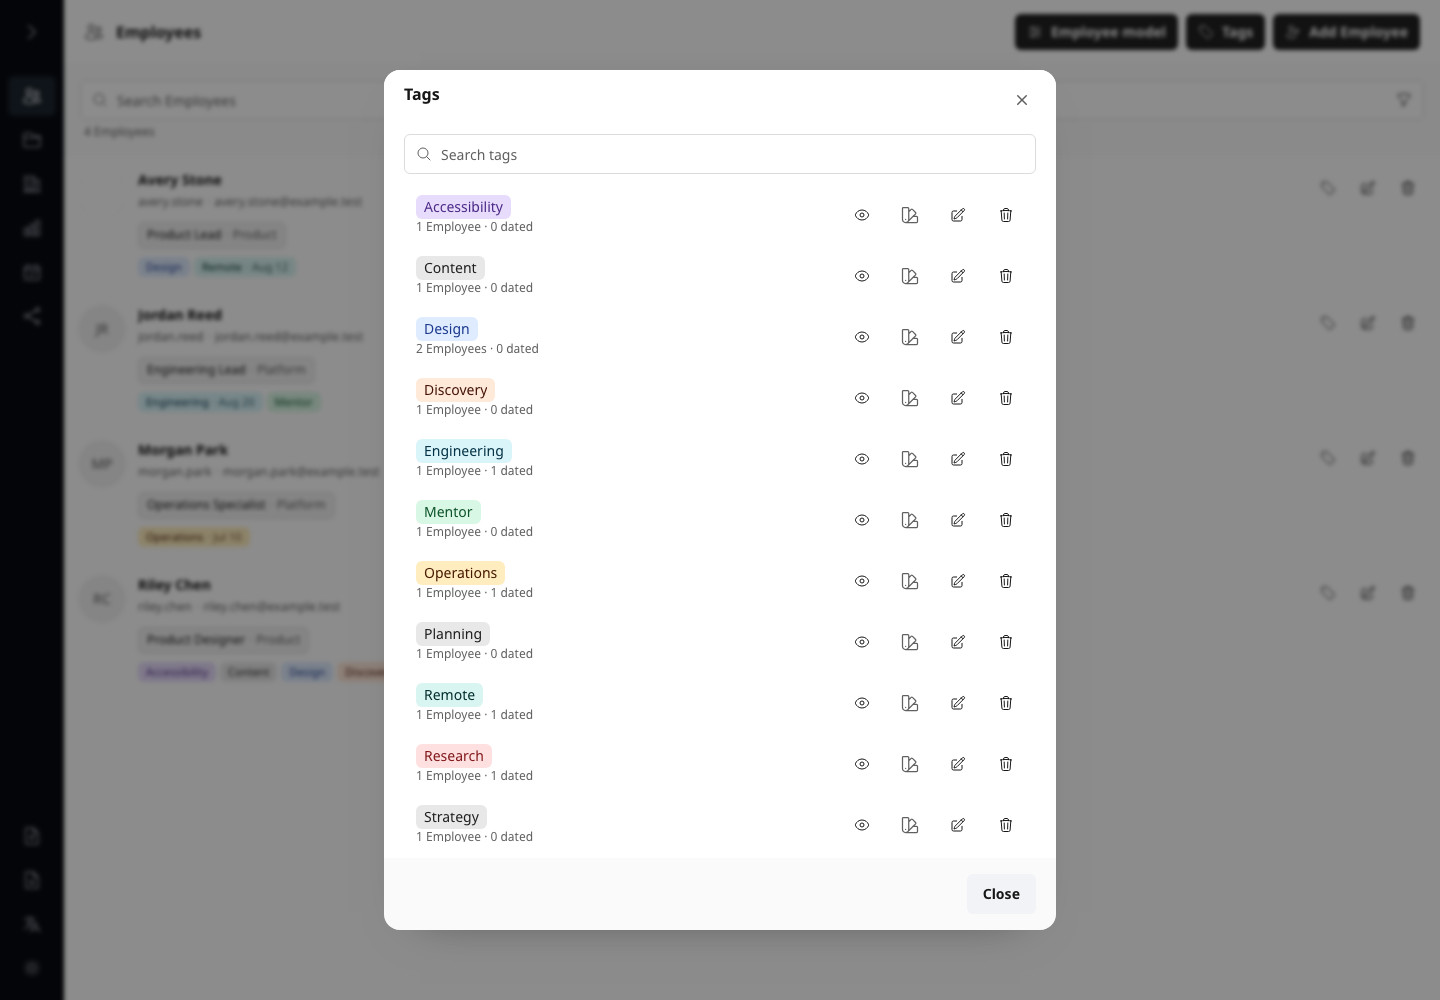
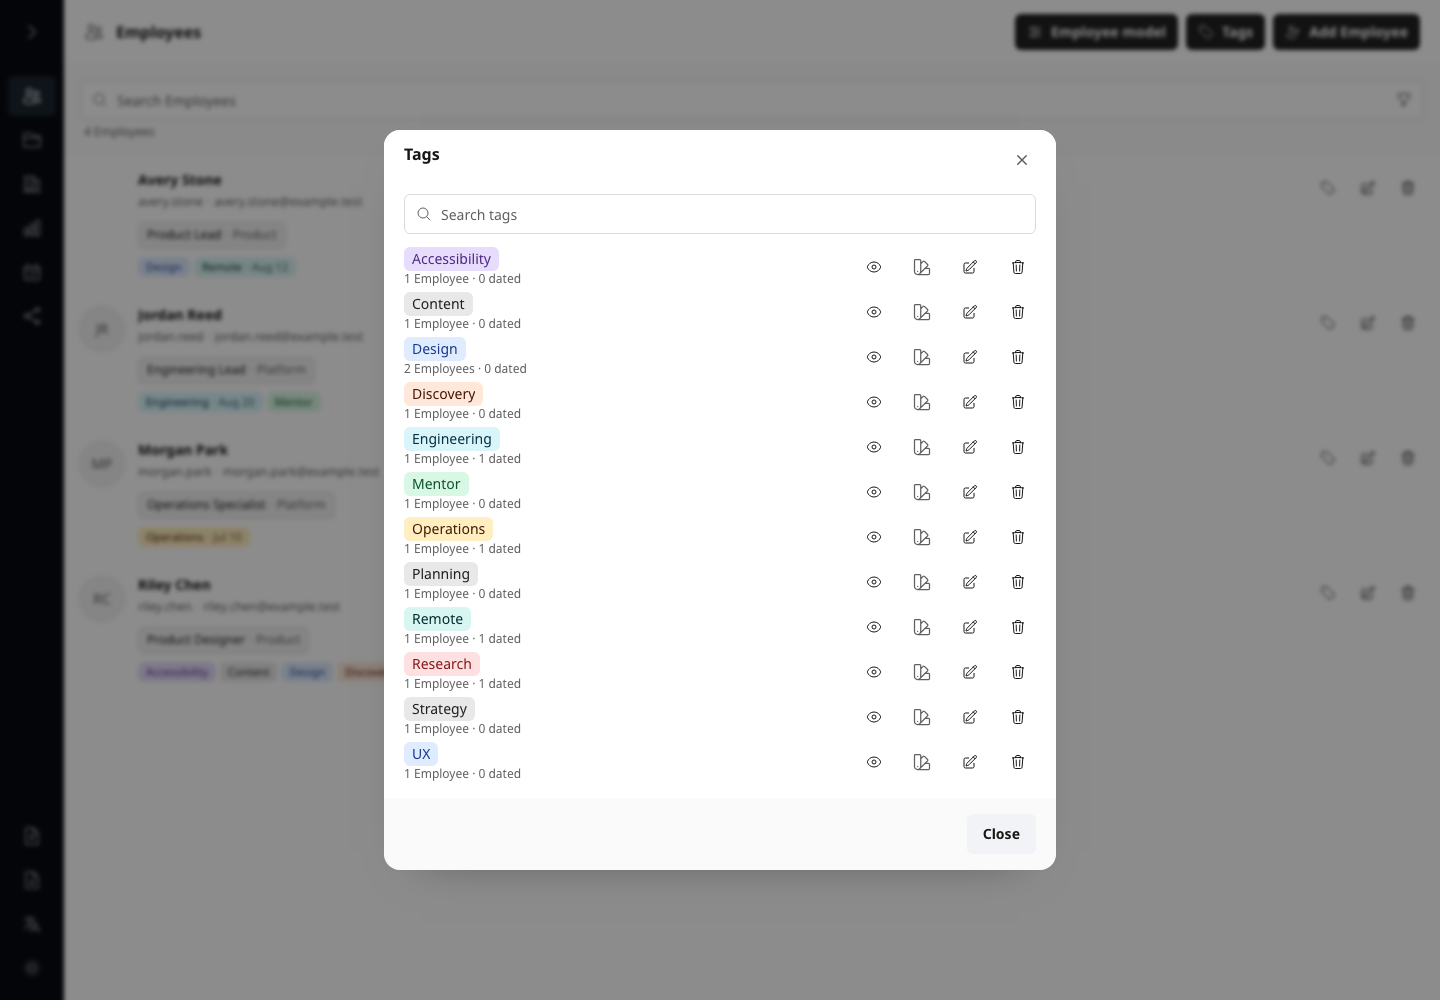
fix: simplify Tag rows and Calendar dates

diff --git a/packages/screenshots/tests/smoke.spec.ts b/packages/screenshots/tests/smoke.spec.ts
@@ -2579,17 +2579,19 @@ test("keeps Calendar navigation in the header and fits July at 1280 by 720", asy
   const emptyDate = page.locator('[data-calendar-date="2026-07-01"]');
   const eventDate = page.locator('[data-calendar-date="2026-07-10"]');
   const weekendDate = page.locator('[data-calendar-date="2026-07-04"]');
-  await expect(emptyDate).toHaveRole("button");
+  await expect(emptyDate).not.toHaveRole("button");
   await expect(eventDate).toHaveRole("button");
   await expect(emptyDate).toHaveCSS("border-top-width", "0px");
-  await expect(emptyDate).toHaveCSS("cursor", "pointer");
+  await expect(emptyDate).not.toHaveCSS("cursor", "pointer");
   await expect(eventDate).toHaveCSS("cursor", "pointer");
   expect(await getBackgroundColor(weekendDate)).not.toBe(await getBackgroundColor(emptyDate));
   const weekendHeadings = page.locator('[data-demo-id="calendar-weekdays"] > .bg-calendar-weekend');
   await expect(weekendHeadings).toHaveCount(2);
   const emptyRestingBackground = await getBackgroundColor(emptyDate);
   await expectStableHoverGeometry(emptyDate);
-  await expect.poll(() => getBackgroundColor(emptyDate)).not.toBe(emptyRestingBackground);
+  expect(await getBackgroundColor(emptyDate)).toBe(emptyRestingBackground);
+  await emptyDate.click();
+  await expect(page.getByRole("dialog")).toHaveCount(0);
   const eventRestingBackground = await getBackgroundColor(eventDate);
   await expectStableHoverGeometry(eventDate);
   await expect.poll(() => getBackgroundColor(eventDate)).not.toBe(eventRestingBackground);
@@ -2789,7 +2791,13 @@ test("uses the configured Tag color as fill without leading marker dots", async 
     .first();
   await expect(tagRow).toHaveCSS("border-width", "0px");
   await expectTransparentBackground(tagRow);
+  await expect(tagRow).toHaveCSS("padding-top", "0px");
+  await expect(tagRow).toHaveCSS("padding-right", "0px");
+  await expect(tagRow).toHaveCSS("padding-bottom", "0px");
+  await expect(tagRow).toHaveCSS("padding-left", "0px");
+  const tagRowRestingBackground = await getBackgroundColor(tagRow);
   await expectStableHoverGeometry(tagRow);
+  expect(await getBackgroundColor(tagRow)).toBe(tagRowRestingBackground);
   expect(
     await tagRow
       .getByRole("button")

diff --git a/apps/ui/src/components/calendar-tab.tsx b/apps/ui/src/components/calendar-tab.tsx
@@ -154,15 +154,32 @@ function CalendarDayCell({
       </div>
     </>
   );
+  const cellClassName = cn(
+    "flex min-h-0 flex-col items-stretch overflow-hidden rounded-lg bg-muted/30 p-2.5 text-start",
+    hasContent &&
+      "cursor-pointer outline-none transition-colors hover:bg-accent focus-visible:ring-2 focus-visible:ring-ring focus-visible:ring-offset-1",
+    isWeekend && "bg-calendar-weekend",
+    hasContent && isWeekend && "hover:bg-calendar-weekend-hover",
+    isToday && !isWeekend && "bg-signal/15",
+    hasContent && isToday && !isWeekend && "hover:bg-signal/20",
+  );
+  if (!hasContent) {
+    return (
+      <div
+        className={cellClassName}
+        data-calendar-date={calendarDay.date}
+        data-has-content="false"
+        data-today={isToday ? "true" : undefined}
+      >
+        {content}
+      </div>
+    );
+  }
   return (
     <button
-      className={cn(
-        "flex min-h-0 cursor-pointer flex-col items-stretch overflow-hidden rounded-lg bg-muted/30 p-2.5 text-start outline-none transition-colors hover:bg-accent focus-visible:ring-2 focus-visible:ring-ring focus-visible:ring-offset-1",
-        isWeekend && "bg-calendar-weekend hover:bg-calendar-weekend-hover",
-        isToday && !isWeekend && "bg-signal/15 hover:bg-signal/20",
-      )}
+      className={cellClassName}
       data-calendar-date={calendarDay.date}
-      data-has-content={hasContent ? "true" : "false"}
+      data-has-content="true"
       data-today={isToday ? "true" : undefined}
       onClick={() => onOpen(calendarDay)}
       type="button"

diff --git a/apps/ui/src/components/tag-catalog-dialog.tsx b/apps/ui/src/components/tag-catalog-dialog.tsx
@@ -123,7 +123,7 @@ export const TagCatalogDialog = observer(function TagCatalogDialog({
                     const count = counts.get(tag.id) ?? { dated: 0, employees: 0 };
                     return (
                       <div
-                        className="flex items-center gap-3 px-3 py-2 transition-colors hover:bg-accent/40"
+                        className="flex items-center gap-3"
                         data-demo-id="tag-catalog-row"
                         key={tag.id}
                       >

diff --git a/docs/screenshots.md b/docs/screenshots.md
@@ -175,8 +175,8 @@ Capabilities: Custom fields, Virtualized values, Not filled, Compound filtering.
 
 [![Tag catalog](screenshots/feature-employees-tag-catalog.png)](screenshots/feature-employees-tag-catalog.png)
 
-Search centralized Tags in flat rows and inspect named or arbitrary global filled colors, Employee
-usage, dated-assignment counts, and the ordered Eye, Color, Edit, and Delete actions.
+Search centralized Tags in padding-free inert rows and inspect named or arbitrary global filled
+colors, Employee usage, dated-assignment counts, and the ordered Eye, Color, Edit, and Delete actions.
 
 Capabilities: Tag catalog, Search, Global colors, Usage counts.
 
@@ -366,8 +366,8 @@ Capabilities: Value drill-down, Matching Employees, Employee actions.
 
 [![Employee Calendar](screenshots/demo-calendar.png)](screenshots/demo-calendar.png)
 
-Navigate locale-correct weeks with soft rose weekend tones, birthdays, compact dated-tag counts, conditional
-Today navigation, and a strong current-day state.
+Navigate locale-correct weeks with soft rose weekend tones, birthdays, compact dated-tag counts,
+conditional Today navigation, non-interactive empty dates, and a strong current-day state.
 
 Capabilities: Localized weekdays, Weekends, Birthdays, Tag indicators, Today state.
 
@@ -450,7 +450,8 @@ Capabilities: Remaining fields, Formatted JSON, Copy, Local download.
   geometry, and every product module.
 - Confirm startup uses one centered icon-only loader with no visible technical status copy.
 - Confirm dialogs, popovers, filters, error states, Editor exports, Analytics drill-down, Calendar events, and Download previews are fully visible.
-- Confirm Tag rows are flat and expose Eye, Color, Edit, and Delete in order. Rename uses a dedicated
+- Confirm Tag rows are padding-free and have no row-level hover effect while exposing Eye, Color,
+  Edit, and Delete in order. Rename uses a dedicated
   modal; quick Color shows its palette, exact typed format Select above the Popover, named presets,
   and no marker dots or clipping; Eye uses full live Employee cards.
 - Confirm thematic icons precede text in buttons and tabs while disclosure, sorting, removal,
@@ -459,6 +460,7 @@ Capabilities: Remaining fields, Formatted JSON, Copy, Local download.
   descendant Employees form one contiguous list, and its count sits below search without roster-section headings.
 - Confirm Calendar day details are one scroll with Birthdays first and each dated Tag as an
   interactive heading followed by complete Employee cards with Tag, Edit, and Delete actions.
+- Confirm empty Calendar dates do not expose a pointer, hover treatment, or day-details dialog.
 - Confirm Calendar tag history omits the Current and upcoming heading and exposes complete Employee
   cards while retaining the conditional Past section.
 - Confirm an unselected Editor Unit keeps its resting background and opacity during passive hover in

diff --git a/openspec/changes/archive/2026-09-03-remove-tag-row-hover-and-empty-day-dialog/specs/tag-catalog/spec.md b/openspec/changes/archive/2026-09-03-remove-tag-row-hover-and-empty-day-dialog/specs/tag-catalog/spec.md
@@ -1,0 +1,46 @@
+## MODIFIED Requirements
+
+### Requirement: Users manage Tags centrally
+The Employees header SHALL expose a Tag dialog with search, Employee count, dated-assignment count,
+flat borderless rows, and confirmed deletion. Tag rows SHALL have no wrapper padding, row hover
+effect, border, shadow, or resting card fill; only their explicit controls SHALL provide interaction
+feedback. Every row SHALL expose Eye, Color, Edit, and Delete actions in that order. Edit SHALL open
+a dedicated rename-only modal with Save and Cancel. Color SHALL open the shared full-spectrum picker
+directly from the row and SHALL persist one valid color change per completed interaction. Deleting a
+definition SHALL atomically remove its assignments, filters, and output exclusions.
+
+#### Scenario: Open Tag editing
+- **WHEN** a user activates Edit for a catalog Tag
+- **THEN** a separate focused rename modal opens without color controls or catalog reflow
+
+#### Scenario: Save a Tag draft
+- **WHEN** a user changes the label to a unique valid value and activates Save
+- **THEN** the existing Tag definition changes atomically and the edit modal closes
+
+#### Scenario: Cancel a Tag draft
+- **WHEN** a user closes or cancels the edit modal after changing its draft label
+- **THEN** the Tag definition and its assignments remain unchanged
+
+#### Scenario: Open quick color editing
+- **WHEN** a user activates the Color action for a Tag
+- **THEN** the shared full palette, exact input, named colors, and No color appear from that row
+
+#### Scenario: Choose an arbitrary color
+- **WHEN** a palette or hue gesture completes
+- **THEN** one canonical color change is persisted and pointer samples do not create organization writes
+
+#### Scenario: Choose a named color
+- **WHEN** a user selects a localized named preset below the palette
+- **THEN** the definition stores that semantic preset and the picker closes
+
+#### Scenario: Reset a Tag color
+- **WHEN** a user selects No color
+- **THEN** the definition uses the neutral Tag treatment and the picker closes
+
+#### Scenario: Delete an assigned Tag
+- **WHEN** the user confirms deletion after seeing affected counts
+- **THEN** the definition and all references disappear in one organization mutation
+
+#### Scenario: Render flat Tag rows
+- **WHEN** the Tag catalog row is idle or the pointer is over its non-control area
+- **THEN** the row has zero wrapper padding and no border, shadow, resting fill, hover fill, or geometry change

diff --git a/openspec/changes/archive/2026-09-03-remove-tag-row-hover-and-empty-day-dialog/specs/organization-editor/spec.md b/openspec/changes/archive/2026-09-03-remove-tag-row-hover-and-empty-day-dialog/specs/organization-editor/spec.md
@@ -1,0 +1,43 @@
+## MODIFIED Requirements
+
+### Requirement: Calendar dates use consistent interaction geometry
+The Calendar SHALL format its month heading through the active locale with a bare numeric year,
+render every in-month date with a fixed date-number row, and expose a day as an actionable button
+only when it contains at least one current birthday or dated Tag assignment. Empty dates SHALL not
+open a dialog or present pointer/hover interaction. Real Saturday and Sunday headings and cells
+SHALL use a stable theme-aware light rose treatment. A current weekend SHALL retain that rose
+surface while the signal date badge remains the dominant current-day cue. A day-dialog title SHALL
+preserve locale order while omitting the abbreviated Russian year suffix. Previous and Next
+navigation SHALL use the reviewed labels from the active catalog.
+
+#### Scenario: Empty and populated dates
+- **WHEN** one empty date and one event date render in the same month
+- **THEN** both keep aligned numbers while only the event date is an actionable button with hover feedback
+
+#### Scenario: Activate an empty date
+- **WHEN** a user clicks or presses an in-month date with no birthday or dated Tag assignment
+- **THEN** no day dialog opens and no Calendar state changes
+
+#### Scenario: Weekend dates
+- **WHEN** a displayed date falls on Saturday or Sunday
+- **THEN** its weekday heading and cell use the same restrained rose family in both themes
+
+#### Scenario: Current weekend date
+- **WHEN** today falls on a weekend in the displayed month
+- **THEN** the cell retains weekend context and the date badge remains clearly current
+
+#### Scenario: Current date
+- **WHEN** the displayed month contains today
+- **THEN** today's date badge and cell treatment remain clearly distinguishable in either theme
+
+#### Scenario: Russian month heading
+- **WHEN** the Russian interface displays August 2026
+- **THEN** the heading contains only the localized month name and numeric year, without an abbreviated or full year suffix
+
+#### Scenario: Open localized date details
+- **WHEN** a user opens a populated day in any supported locale
+- **THEN** the title follows that locale and contains no obsolete Russian year suffix
+
+#### Scenario: Navigate in Russian
+- **WHEN** Russian Calendar navigation is exposed
+- **THEN** its backward and forward controls use the reviewed Russian catalog labels

diff --git a/openspec/specs/organization-editor/spec.md b/openspec/specs/organization-editor/spec.md
@@ -379,16 +379,21 @@ Unit filters.
 
 ### Requirement: Calendar dates use consistent interaction geometry
 The Calendar SHALL format its month heading through the active locale with a bare numeric year,
-render every in-month date as an actionable button with a fixed date-number row, and distinguish
-real Saturday and Sunday headings and cells through a stable theme-aware light rose treatment. A
-current weekend SHALL retain that rose surface while the signal date badge remains the dominant
-current-day cue. A day-dialog title SHALL preserve locale order while omitting the abbreviated
-Russian year suffix. Previous and Next navigation SHALL use the reviewed labels from the active
-catalog.
+render every in-month date with a fixed date-number row, and expose a day as an actionable button
+only when it contains at least one current birthday or dated Tag assignment. Empty dates SHALL not
+open a dialog or present pointer/hover interaction. Real Saturday and Sunday headings and cells
+SHALL use a stable theme-aware light rose treatment. A current weekend SHALL retain that rose
+surface while the signal date badge remains the dominant current-day cue. A day-dialog title SHALL
+preserve locale order while omitting the abbreviated Russian year suffix. Previous and Next
+navigation SHALL use the reviewed labels from the active catalog.
 
 #### Scenario: Empty and populated dates
 - **WHEN** one empty date and one event date render in the same month
-- **THEN** both are buttons with aligned numbers and stable hover feedback
+- **THEN** both keep aligned numbers while only the event date is an actionable button with hover feedback
+
+#### Scenario: Activate an empty date
+- **WHEN** a user clicks or presses an in-month date with no birthday or dated Tag assignment
+- **THEN** no day dialog opens and no Calendar state changes
 
 #### Scenario: Weekend dates
 - **WHEN** a displayed date falls on Saturday or Sunday
@@ -408,7 +413,7 @@ catalog.
   abbreviated or full year suffix
 
 #### Scenario: Open localized date details
-- **WHEN** a user opens a day in any supported locale
+- **WHEN** a user opens a populated day in any supported locale
 - **THEN** the title follows that locale and contains no obsolete Russian year suffix
 
 #### Scenario: Navigate in Russian

diff --git a/openspec/specs/tag-catalog/spec.md b/openspec/specs/tag-catalog/spec.md
@@ -29,11 +29,12 @@ Unassigned definitions SHALL remain until explicitly deleted.
 
 ### Requirement: Users manage Tags centrally
 The Employees header SHALL expose a Tag dialog with search, Employee count, dated-assignment count,
-flat borderless rows, and confirmed deletion. Every row SHALL expose Eye, Color, Edit, and Delete
-actions in that order. Edit SHALL open a dedicated rename-only modal with Save and Cancel. Color
-SHALL open the shared full-spectrum picker directly from the row and SHALL persist one valid color
-change per completed interaction. Deleting a definition SHALL atomically remove its assignments,
-filters, and output exclusions.
+flat borderless rows, and confirmed deletion. Tag rows SHALL have no wrapper padding, row hover
+effect, border, shadow, or resting card fill; only their explicit controls SHALL provide interaction
+feedback. Every row SHALL expose Eye, Color, Edit, and Delete actions in that order. Edit SHALL open
+a dedicated rename-only modal with Save and Cancel. Color SHALL open the shared full-spectrum picker
+directly from the row and SHALL persist one valid color change per completed interaction. Deleting a
+definition SHALL atomically remove its assignments, filters, and output exclusions.
 
 #### Scenario: Open Tag editing
 - **WHEN** a user activates Edit for a catalog Tag
@@ -68,8 +69,8 @@ filters, and output exclusions.
 - **THEN** the definition and all references disappear in one organization mutation
 
 #### Scenario: Render flat Tag rows
-- **WHEN** the Tag catalog is idle or hovered
-- **THEN** its rows have no border, shadow, or resting card fill and hover does not change geometry
+- **WHEN** the Tag catalog row is idle or the pointer is over its non-control area
+- **THEN** the row has zero wrapper padding and no border, shadow, resting fill, hover fill, or geometry change
 
 ### Requirement: Tag membership is inspectable through full Employee cards
 The Tag catalog SHALL provide an Eye action that opens a separate modal resolved by stable Tag ID.

diff --git a/openspec/changes/archive/2026-09-03-remove-tag-row-hover-and-empty-day-dialog/design.md b/openspec/changes/archive/2026-09-03-remove-tag-row-hover-and-empty-day-dialog/design.md
@@ -1,0 +1,39 @@
+## Context
+
+The Tag catalog already renders explicit Eye, Color, Edit, and Delete controls, so the surrounding
+row does not need a hover affordance or card-like inset. Calendar currently renders every in-month
+date as a button and opens a day dialog even when its derived birthday and dated-Tag collections are
+empty.
+
+## Goals / Non-Goals
+
+**Goals:**
+
+- Make Tag catalog rows content-aligned, padding-free, and visually inert outside their actions.
+- Prevent empty Calendar dates from presenting or activating a day-detail affordance.
+- Preserve accessibility, current-day/weekend styling, populated-day interactions, and large-list behavior.
+
+**Non-Goals:**
+
+- No state, database, API, import/export, tag-assignment, or calendar-event model changes.
+- No new dependencies or translations.
+- No change to the contents or actions of populated day dialogs.
+
+## Decisions
+
+- Remove row-level padding and hover background from the Tag catalog wrapper while retaining the
+  existing fixed action area and list gap. This avoids a false card affordance without changing
+  individual button feedback.
+- Derive `hasEvents` from the existing birthday and dated-Tag collections for each Calendar date.
+  Populated dates remain native buttons; empty dates render as non-interactive cells with the same
+  date-number geometry and semantic weekend/current styling.
+- Keep event derivation in the existing Calendar model path and add browser assertions, avoiding a
+  second event index or per-pointer computation.
+
+## Risks / Trade-offs
+
+- **Risk: empty and populated cells drift geometrically** → share the same cell layout classes and
+  vary only the interactive element/affordance classes.
+- **Risk: Tag row actions lose usable hit areas** → remove only wrapper padding; preserve each action
+  button's own target size and focus feedback.
+- **Risk: screenshots become stale** → regenerate and inspect the complete deterministic gallery.

diff --git a/README.md b/README.md
@@ -29,11 +29,11 @@ Employee birthdays use complete `DD.MM.YYYY` values. Year `1900` explicitly mean
 recurring day and month are known.
 
 Employees have stable UUIDs, a configurable model of typed or derived custom fields, and a shared
-Tag catalog with flat rows, dedicated rename and Employee-list dialogs, quick row-level color actions,
+Tag catalog with padding-free inert rows, dedicated rename and Employee-list dialogs, quick row-level color actions,
 named presets, a full palette, and exact HTML Keyword, HEX, RGB, or RGBA entry rendered as filled surfaces without decorative marker dots. Custom colors
 are normalized to canonical HEX, including retained alpha. Custom fields participate in forms, filters, Employee Import,
 structured JSON, Template output, and colored PNG chips. The Calendar uses locale-aware weeks, soft rose weekend tones, a
-compact dated-Tag rail, and direct Today navigation when browsing another month.
+compact dated-Tag rail, direct Today navigation when browsing another month, and day details only for dates containing events.
 
 The complete interface is bundled in English, Simplified Chinese, Russian, Spanish, French, and
 Modern Standard Arabic. The language dialog uses bundled local flags. New in-memory states follow the first supported browser language, Arabic

diff --git a/openspec/changes/archive/2026-09-03-remove-tag-row-hover-and-empty-day-dialog/proposal.md b/openspec/changes/archive/2026-09-03-remove-tag-row-hover-and-empty-day-dialog/proposal.md
@@ -1,0 +1,28 @@
+## Why
+
+Tag catalog rows still behave visually like padded interactive cards even though their actions are
+explicit controls, and empty Calendar dates open a dialog with no useful content. Removing those
+two dead interaction cues makes both workflows quieter and more predictable.
+
+## What Changes
+
+- Remove hover fill and redundant row padding from the Tag catalog list while preserving its action controls.
+- Make Calendar dates open the day dialog only when they contain a birthday or dated Tag assignment.
+- Keep empty dates visually consistent and non-interactive without changing state, persistence, APIs, or export formats.
+
+## Capabilities
+
+### New Capabilities
+
+None.
+
+### Modified Capabilities
+
+- `tag-catalog`: Tag list rows become unpadded and have no row-level hover effect.
+- `organization-editor`: Calendar day dialogs open only for dates with current events.
+
+## Impact
+
+The change is limited to Tag catalog row presentation, Calendar day interaction, browser coverage,
+screenshots, and corresponding specifications/documentation. It does not change `OrgToolsState`,
+SQLite, public APIs, localization contracts, network behavior, or runtime privacy boundaries.

diff --git a/docs/usage.md b/docs/usage.md
@@ -82,8 +82,8 @@ control.
   unknown-year sentinel are excluded. Every Eye drill-down uses current full Employee cards with
   Tag, Edit, and Delete actions.
 - **Calendar** combines recurring birthdays and dated tags with localized weekday order, leading
-  month offsets, soft rose weekend tones, a horizontal Tag rail, conditional Today navigation, interactive dates, and Employee
-  actions. A day dialog is one vertical scroll: nonempty Birthdays come first, followed by each
+  month offsets, soft rose weekend tones, a horizontal Tag rail, conditional Today navigation, event-bearing interactive dates, and Employee
+  actions. Empty dates remain non-interactive and open no dialog. A day dialog is one vertical scroll: nonempty Birthdays come first, followed by each
   interactive Tag heading and its full Employee-card list. Day and tag dialogs omit redundant
   descriptions, generic dated-event/current-future headings, special event subtitles, and empty
   Birthday, dated-event, or Past sections. Both day details and dated-tag
